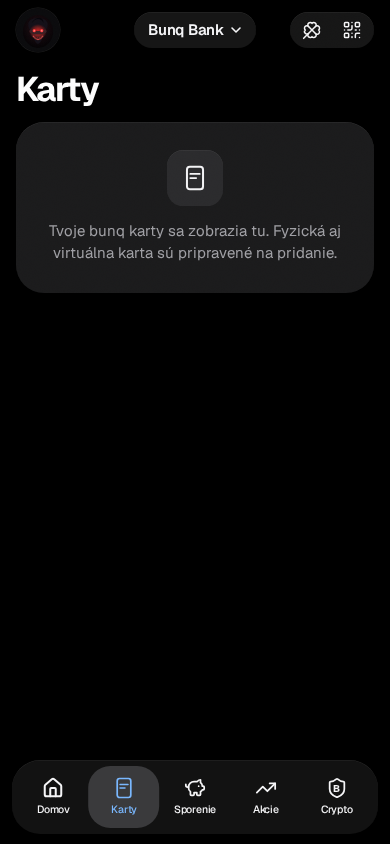
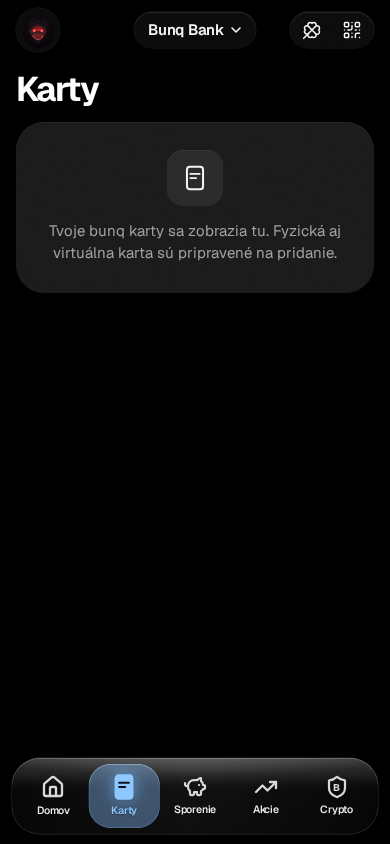
Export from Grok

Changed region(s): [[0.0308, 0.8934, 0.9538, 0.9858]]

diff --git a/src/styles.css b/src/styles.css
@@ -200,12 +200,16 @@
   padding: 0 12px 0 14px;
   border: 0;
   border-radius: 999px;
-  background: var(--color-surface-2);
+  background: rgb(22 22 24 / 0.55);
+  backdrop-filter: blur(16px) saturate(1.4);
+  -webkit-backdrop-filter: blur(16px) saturate(1.4);
   color: var(--color-fg);
   font-size: 15px;
   font-weight: 600;
   letter-spacing: -0.015em;
-  box-shadow: inset 0 0.5px 0 rgb(255 255 255 / 0.1);
+  box-shadow:
+    inset 0 0.5px 0 rgb(255 255 255 / 0.22),
+    0 0 0 0.5px rgb(255 255 255 / 0.1);
 }
 
 .avatar-btn {
@@ -229,10 +233,14 @@
   display: flex;
   align-items: center;
   gap: 0;
-  background: var(--color-surface-2);
+  background: rgb(22 22 24 / 0.55);
+  backdrop-filter: blur(16px) saturate(1.4);
+  -webkit-backdrop-filter: blur(16px) saturate(1.4);
   border-radius: 999px;
   padding: 2px;
-  box-shadow: inset 0 0.5px 0 rgb(255 255 255 / 0.1);
+  box-shadow:
+    inset 0 0.5px 0 rgb(255 255 255 / 0.22),
+    0 0 0 0.5px rgb(255 255 255 / 0.1);
 }
 
 .icon-pill {
@@ -263,7 +271,7 @@
   width: 100%;
   border: 0;
   text-align: center;
-  background: var(--color-surface);
+  background: rgb(28 28 29 / 0.82);
   color: var(--color-fg);
   border-radius: 28px;
   padding: 16px 20px 14px;
@@ -271,7 +279,9 @@
   flex-direction: column;
   align-items: center;
   gap: 2px;
-  box-shadow: inset 0 0.5px 0 rgb(255 255 255 / 0.1);
+  box-shadow:
+    inset 0 0.5px 0 rgb(255 255 255 / 0.16),
+    0 0 0 0.5px rgb(255 255 255 / 0.06);
 }
 
 .wealth-label {
@@ -537,10 +547,17 @@
   left: 12px;
   right: 12px;
   bottom: calc(10px + env(safe-area-inset-bottom, 0px));
-  height: 74px;
-  background: rgb(20 20 20 / 0.88);
-  backdrop-filter: blur(22px) saturate(1.2);
-  -webkit-backdrop-filter: blur(22px) saturate(1.2);
+  height: 76px;
+  isolation: isolate;
+  overflow: hidden;
+  background: linear-gradient(
+    180deg,
+    rgb(255 255 255 / 0.14) 0%,
+    rgb(18 18 20 / 0.42) 42%,
+    rgb(12 12 14 / 0.5) 100%
+  );
+  backdrop-filter: blur(44px) saturate(1.85) brightness(1.08);
+  -webkit-backdrop-filter: blur(44px) saturate(1.85) brightness(1.08);
   border-radius: 28px;
   display: grid;
   grid-template-columns: repeat(5, 1fr);
@@ -548,66 +565,110 @@
   padding: 6px;
   z-index: 10;
   box-shadow:
-    inset 0 0.5px 0 rgb(255 255 255 / 0.1),
-    0 8px 24px rgb(0 0 0 / 0.4);
+    inset 0 0.6px 0 rgb(255 255 255 / 0.38),
+    inset 0 -0.5px 0 rgb(255 255 255 / 0.06),
+    0 0 0 0.5px rgb(255 255 255 / 0.18),
+    0 10px 28px rgb(0 0 0 / 0.38);
+}
+
+.tabbar::before {
+  content: "";
+  position: absolute;
+  inset: 0;
+  pointer-events: none;
+  border-radius: inherit;
+  background:
+    radial-gradient(120% 80% at 50% -20%, rgb(255 255 255 / 0.22), transparent 55%),
+    linear-gradient(180deg, rgb(255 255 255 / 0.1), transparent 36%);
+  z-index: 0;
+}
+
+.tabbar::after {
+  content: "";
+  position: absolute;
+  inset: 0;
+  pointer-events: none;
+  border-radius: inherit;
+  background: linear-gradient(
+    90deg,
+    transparent 0%,
+    rgb(255 255 255 / 0.06) 48%,
+    transparent 100%
+  );
+  mix-blend-mode: overlay;
+  z-index: 0;
 }
 
 .tab-item {
-  height: 62px;
+  height: 64px;
   border: 0;
   background: transparent;
-  color: var(--color-muted);
+  color: #ececec;
   border-radius: 22px;
   display: flex;
   flex-direction: column;
   align-items: center;
   justify-content: center;
-  gap: 2px;
+  gap: 3px;
   padding: 0 2px;
   min-width: 0;
   position: relative;
-  z-index: 0;
+  z-index: 1;
 }
 
 .tab-pill {
   position: absolute;
   inset: 0;
   border-radius: 22px;
-  background: color-mix(in oklab, var(--color-home-blue) 28%, #1a1a1c);
+  background: color-mix(in oklab, var(--color-home-blue) 34%, rgb(255 255 255 / 0.08));
   z-index: -1;
-  box-shadow: inset 0 0.5px 0 color-mix(in oklab, var(--color-home-blue) 45%, transparent);
+  box-shadow:
+    inset 0 0.6px 0 rgb(255 255 255 / 0.42),
+    inset 0 0 0 0.5px color-mix(in oklab, var(--color-home-blue) 50%, transparent);
 }
 
 .tab-item.is-active {
   background: transparent;
-  color: var(--color-home-blue);
+  color: #8ec8ff;
 }
 
 .tab-item.is-active .tab-label {
-  color: var(--color-home-blue);
+  color: #8ec8ff;
   font-weight: 600;
+}
+
+.tab-item.is-active .tab-ico {
+  color: #8ec8ff;
+  transform: scale(1.12);
+  filter:
+    drop-shadow(0 0 7px rgb(126 196 255 / 0.85))
+    drop-shadow(0 1px 1px rgb(0 0 0 / 0.4));
 }
 
 .tab-label {
   font-size: 10.5px;
-  font-weight: 500;
+  font-weight: 550;
   color: inherit;
   white-space: nowrap;
   letter-spacing: -0.02em;
+  text-shadow: 0 1px 1px rgb(0 0 0 / 0.45);
 }
 
 .tab-ico {
-  height: 24px;
+  height: 26px;
   display: grid;
   place-items: center;
+  color: #d8d8dc;
+  filter: drop-shadow(0 1px 1px rgb(0 0 0 / 0.55));
+  transition: transform 180ms cubic-bezier(0.22, 1, 0.36, 1), filter 180ms ease;
 }
 
 .shield-wrap {
   position: relative;
   display: grid;
   place-items: center;
-  width: 22px;
-  height: 22px;
+  width: 24px;
+  height: 24px;
 }
 
 .btc-mark {
@@ -616,6 +677,10 @@
   font-weight: 700;
   line-height: 1;
   transform: translateY(0.5px);
+}
+
+.tab-item.is-active .btc-mark {
+  color: #0b1220;
 }
 
 .empty-card {

diff --git a/src/components/home-dashboard.tsx b/src/components/home-dashboard.tsx
@@ -146,19 +146,19 @@ function TabBar({ tab, onTab }: { tab: TabId; onTab: (id: TabId) => void }) {
             )}
             <span className="tab-ico" aria-hidden="true">
               {item.id === "home" && (
-                <Home size={22} strokeWidth={2.2} fill={active ? "currentColor" : "none"} />
+                <Home size={24} strokeWidth={2.35} fill={active ? "currentColor" : "none"} />
               )}
               {item.id === "cards" && (
-                <svg width="18" height="22" viewBox="0 0 18 22" fill="none">
-                  <rect x="2.2" y="1.5" width="13.6" height="19" rx="2.4" stroke="currentColor" strokeWidth="1.7" />
-                  <path d="M5 7.5h8M5 11h5" stroke="currentColor" strokeWidth="1.5" strokeLinecap="round" />
+                <svg width="20" height="24" viewBox="0 0 18 22" fill={active ? "currentColor" : "none"}>
+                  <rect x="2.2" y="1.5" width="13.6" height="19" rx="2.4" stroke="currentColor" strokeWidth="1.9" />
+                  <path d="M5 7.5h8M5 11h5" stroke={active ? "#0b1220" : "currentColor"} strokeWidth="1.7" strokeLinecap="round" />
                 </svg>
               )}
-              {item.id === "save" && <PiggyBank size={22} strokeWidth={1.9} />}
-              {item.id === "stocks" && <TrendingUp size={22} strokeWidth={1.9} />}
+              {item.id === "save" && <PiggyBank size={24} strokeWidth={2.25} fill={active ? "currentColor" : "none"} />}
+              {item.id === "stocks" && <TrendingUp size={24} strokeWidth={2.35} />}
               {item.id === "crypto" && (
                 <span className="shield-wrap">
-                  <Shield size={22} strokeWidth={1.9} />
+                  <Shield size={24} strokeWidth={2.25} fill={active ? "currentColor" : "none"} />
                   <span className="btc-mark">B</span>
                 </span>
               )}
